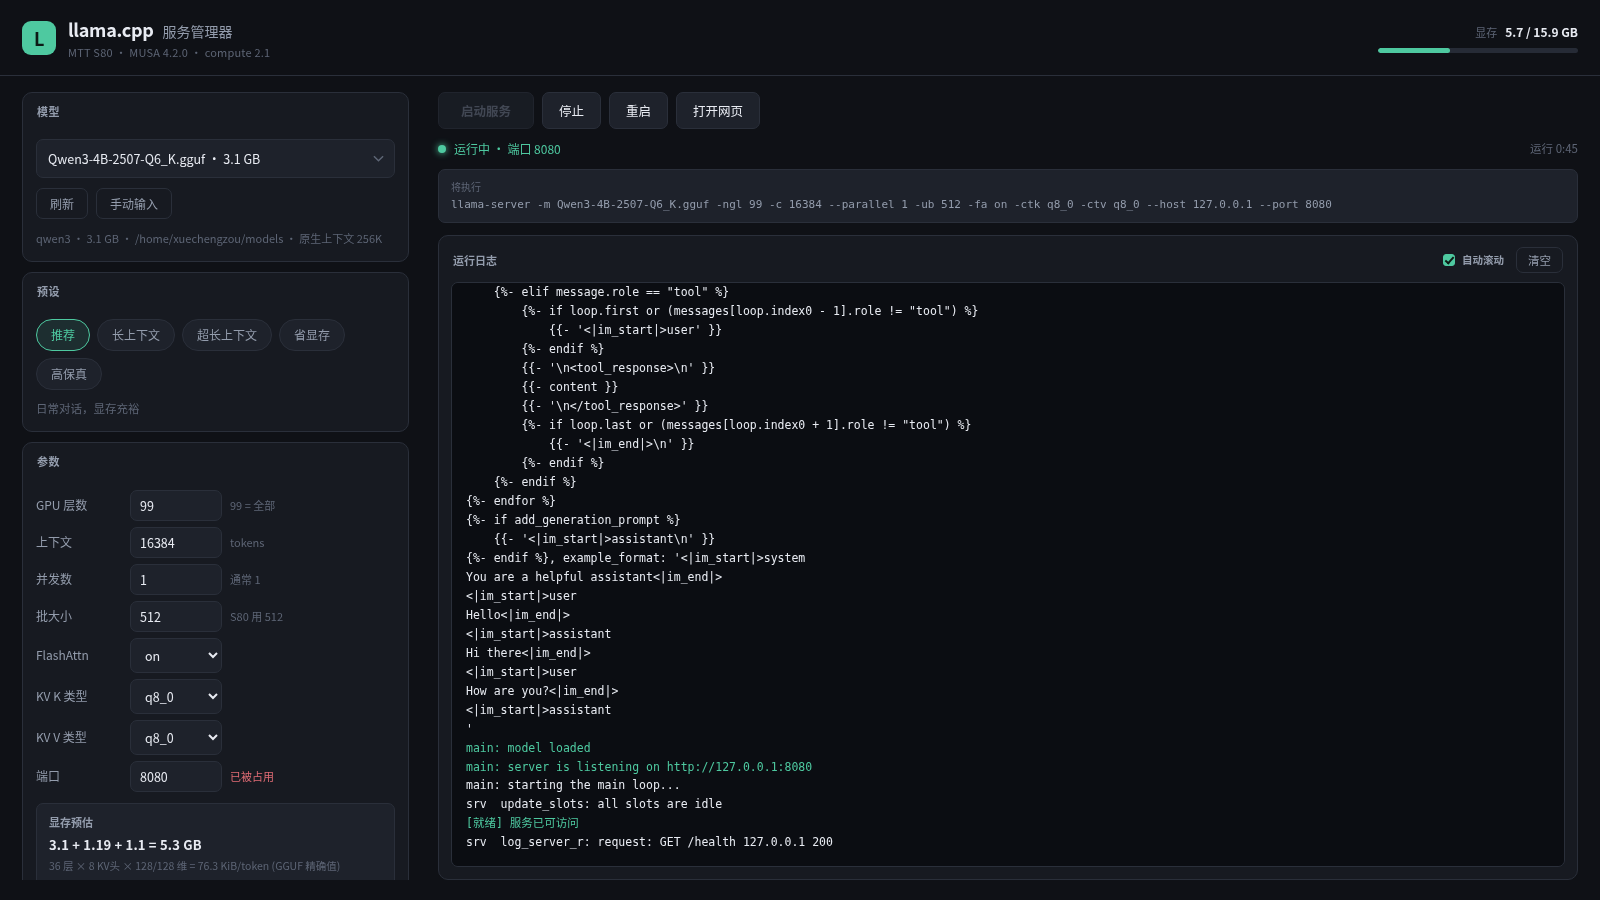
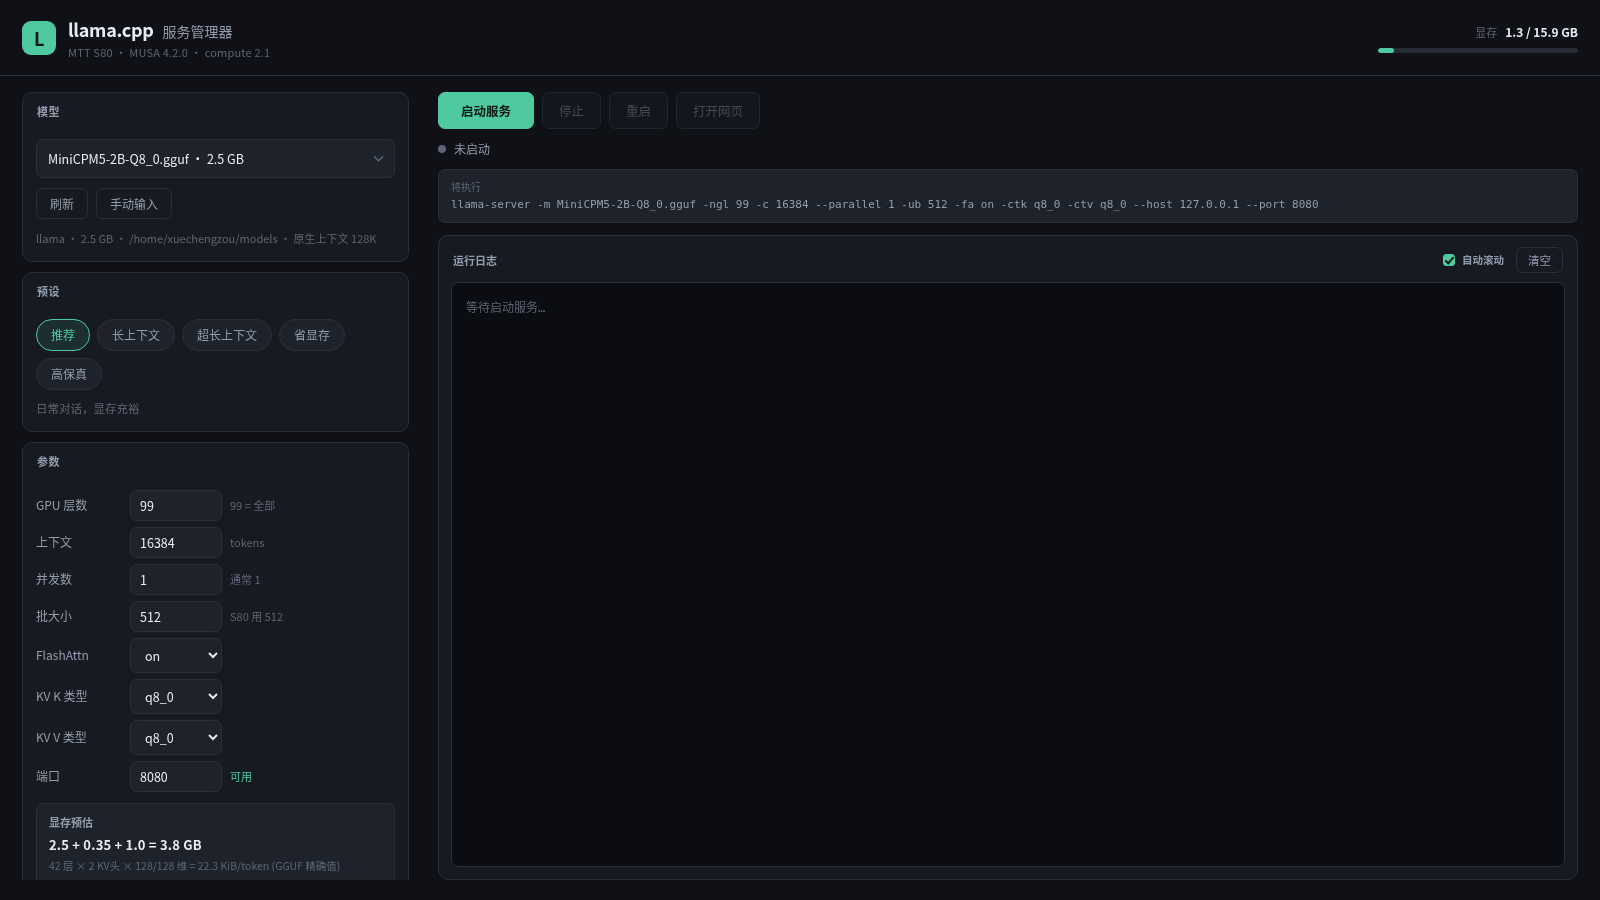
fix: 移除重复轮询定时器与未使用函数
- poll 内部已有并发保护，去掉冗余的 1000ms 定时器
- 清理未调用的 tickClock
- 服务空闲时同步刷新端口占用状态
- 更新界面截图

diff --git a/static/app.js b/static/app.js
@@ -299,6 +299,11 @@ function renderServer(s) {
   } else {
     $("statusClock").textContent = "";
   }
+
+  // 服务停止时，把端口提示恢复为实测状态
+  if (!running && s.status === "idle") {
+    checkPort();
+  }
 }
 
 /* ── 日志 ────────────────────────────────────────────────── */
@@ -452,21 +457,12 @@ function bind() {
   });
 }
 
-/* ── 时钟 ────────────────────────────────────────────────── */
-
-function tickClock() {
-  if (!state.server.running) {
-    const now = new Date();
-    $("statusClock").textContent = "";  // 空闲时不显示时钟
-  }
-}
-
 /* ── 启动 ────────────────────────────────────────────────── */
 
 (function init() {
   $("logBody").innerHTML = '<div class="log-empty">等待启动服务…</div>';
   bind();
   poll();
+  // 统一轮询节奏：800ms 一次，poll 内部有并发保护
   setInterval(poll, 800);
-  setInterval(() => { if (state.server.running) poll(); }, 1000);
 })();
